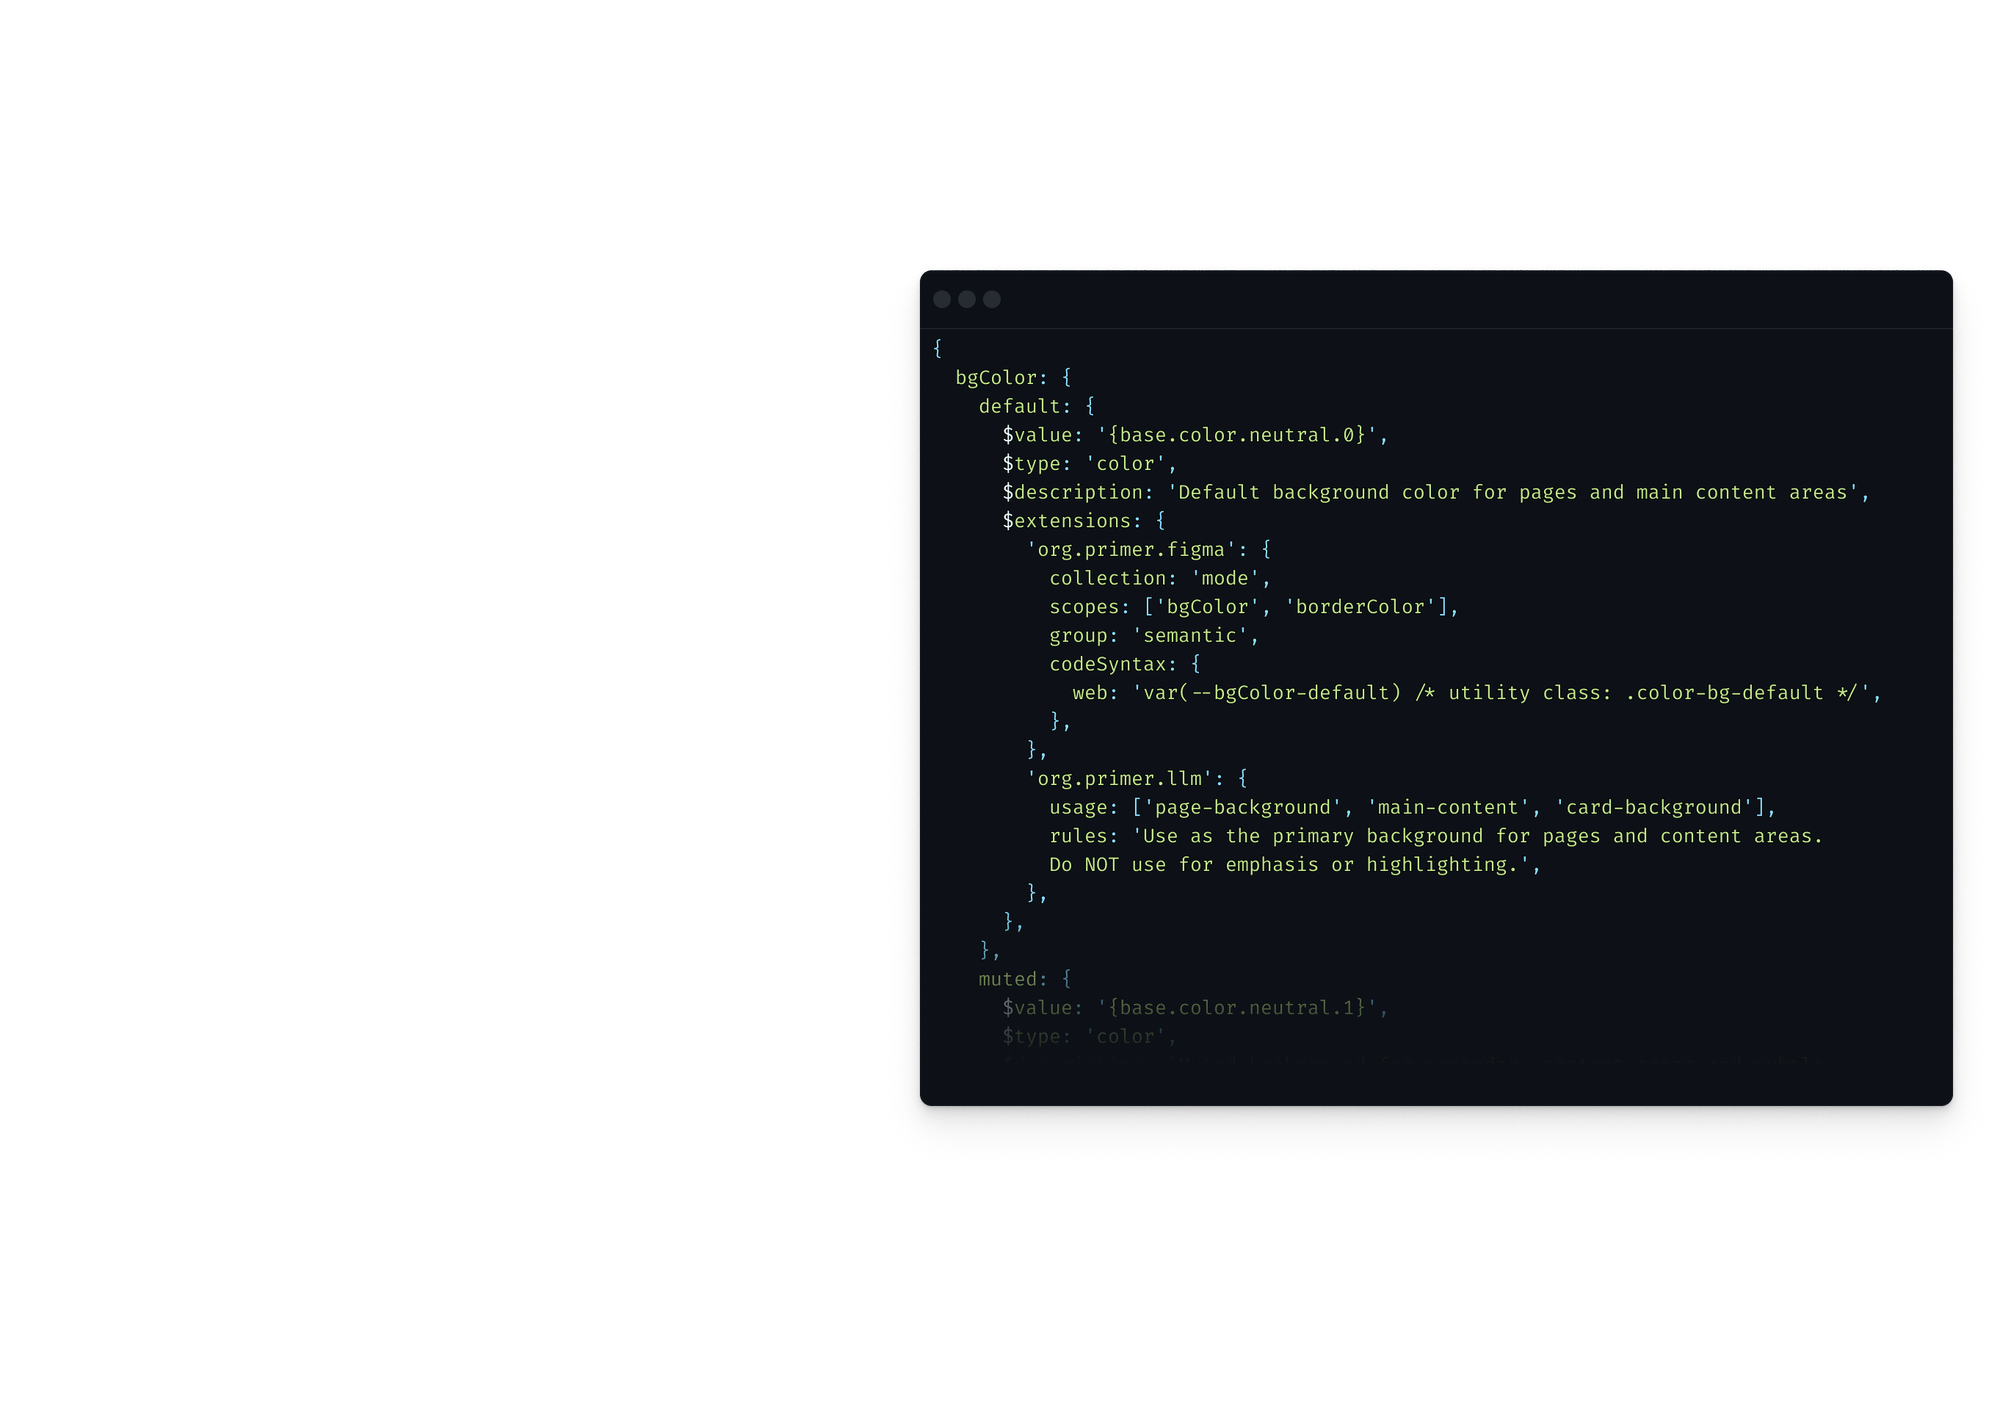
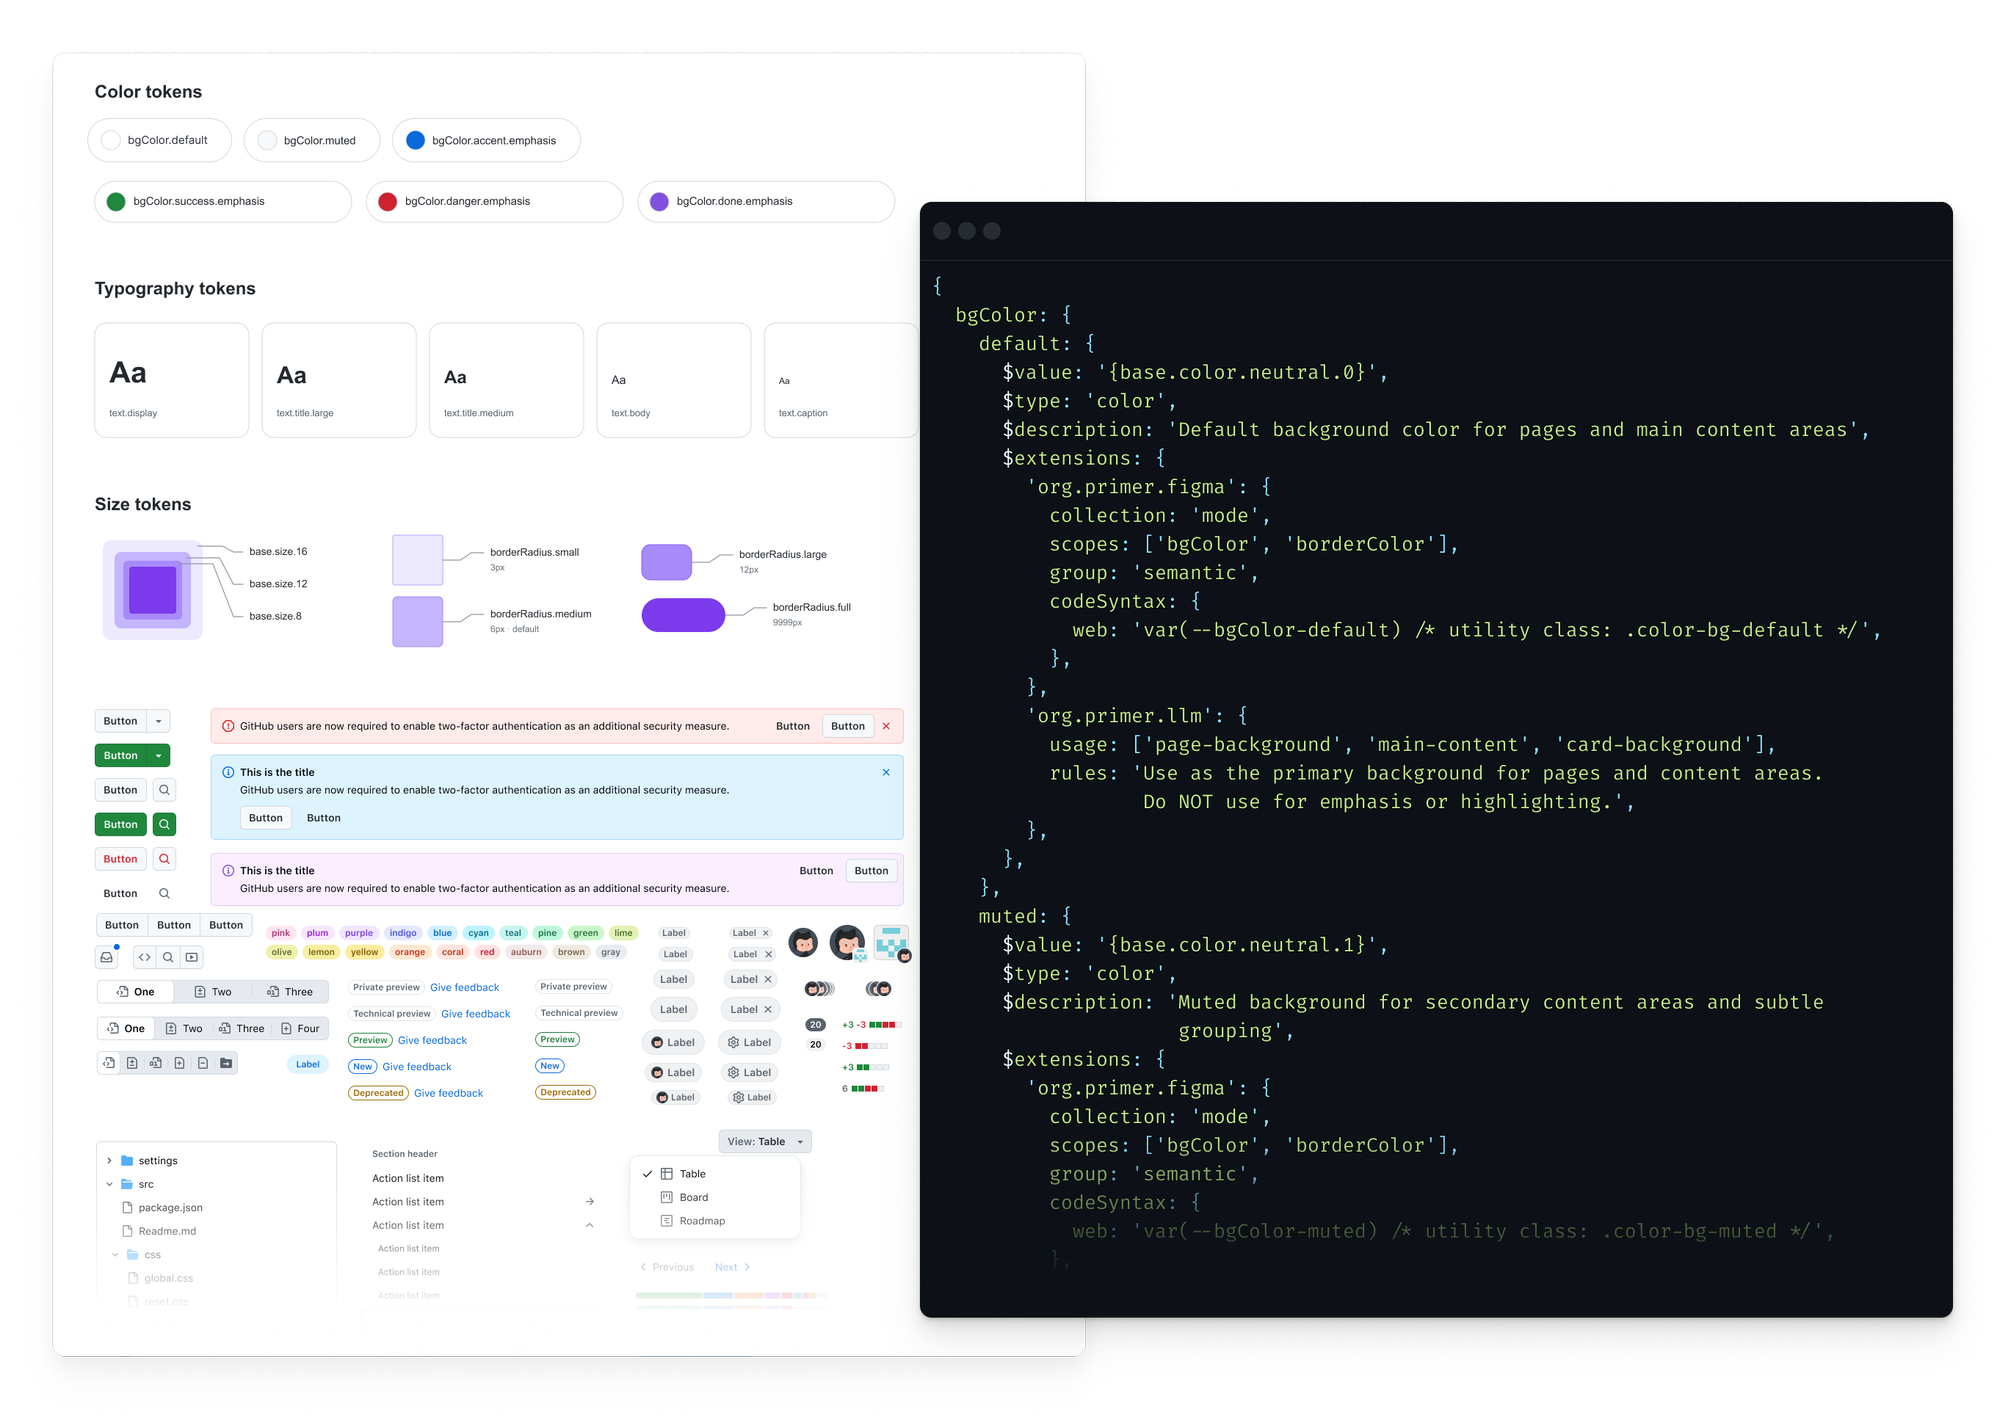
Update Primer case study image

diff --git a/src/content/projects/00_primer-ai-ready.md b/src/content/projects/00_primer-ai-ready.md
@@ -15,7 +15,7 @@ responsibilities:
   - Cross-functional leadership
   - Engineering collaboration
 image: /src/assets/images/primer-ai-ready.png
-imageAlt: Primer design token definition with structured usage guidance for AI
+imageAlt: Primer design tokens and components alongside a token definition with AI usage guidance
 startDate: "2025-01-01"
 endDate: "2026-12-31"
 ---
